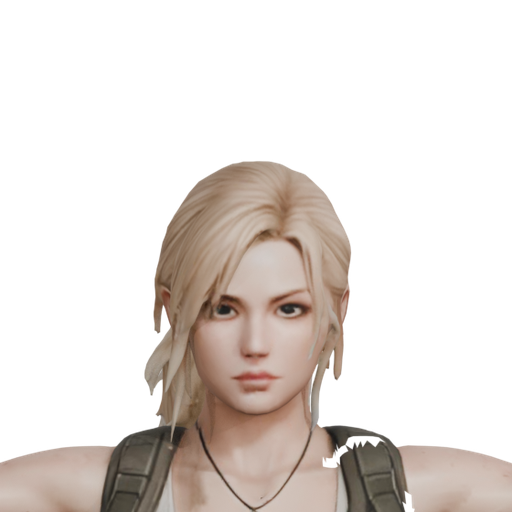
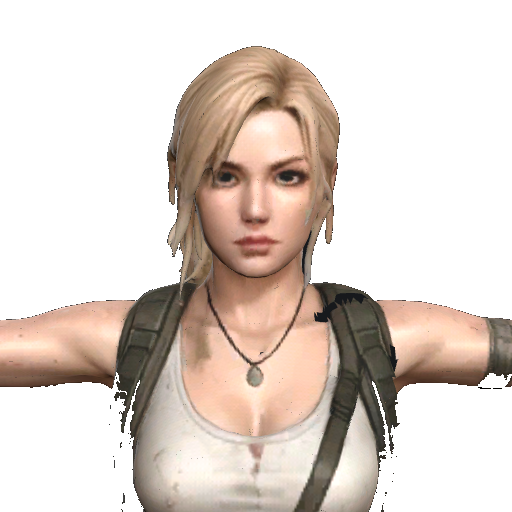
brand: store cards for Maya and Riley use the new front T-pose renders

diff --git a/tools/store_char_cutout.py b/tools/store_char_cutout.py
@@ -1,0 +1,40 @@
+from PIL import Image
+import os
+
+ROOT = r"C:\Users\user\Documents\kimi\tasks\2026-11-06\12-50-12-52283f1e\df-backup"
+TOOLS = os.path.join(ROOT, "tools")
+STORE = os.path.join(ROOT, "assets", "ui", "store")
+
+
+def cut_out(path):
+    """Knock the studio backdrop out by flood filling from the corners."""
+    im = Image.open(path).convert("RGBA")
+    w, h = im.size
+    px = im.load()
+    # backdrop is a flat dark grey: sample the corners
+    corners = [px[0, 0], px[w - 1, 0], px[0, h - 1], px[w - 1, h - 1]]
+    br = sum(c[0] for c in corners) / 4.0
+    bg = sum(c[1] for c in corners) / 4.0
+    bb = sum(c[2] for c in corners) / 4.0
+
+    seen = [[False] * w for _ in range(h)]
+    stack = [(0, 0), (w - 1, 0), (0, h - 1), (w - 1, h - 1)]
+    tol = 26
+    while stack:
+        x, y = stack.pop()
+        if x < 0 or y < 0 or x >= w or y >= h or seen[y][x]:
+            continue
+        seen[y][x] = True
+        r, g, b, a = px[x, y]
+        if abs(r - br) > tol or abs(g - bg) > tol or abs(b - bb) > tol:
+            continue
+        px[x, y] = (r, g, b, 0)
+        stack.extend(((x + 1, y), (x - 1, y), (x, y + 1), (x, y - 1)))
+    return im
+
+
+for shot, out in (("maya_shot.png", "char_maya.png"), ("riley_shot.png", "char_riley.png")):
+    src = os.path.join(TOOLS, shot)
+    im = cut_out(src)
+    im.save(os.path.join(STORE, out))
+    print("wrote", out)
